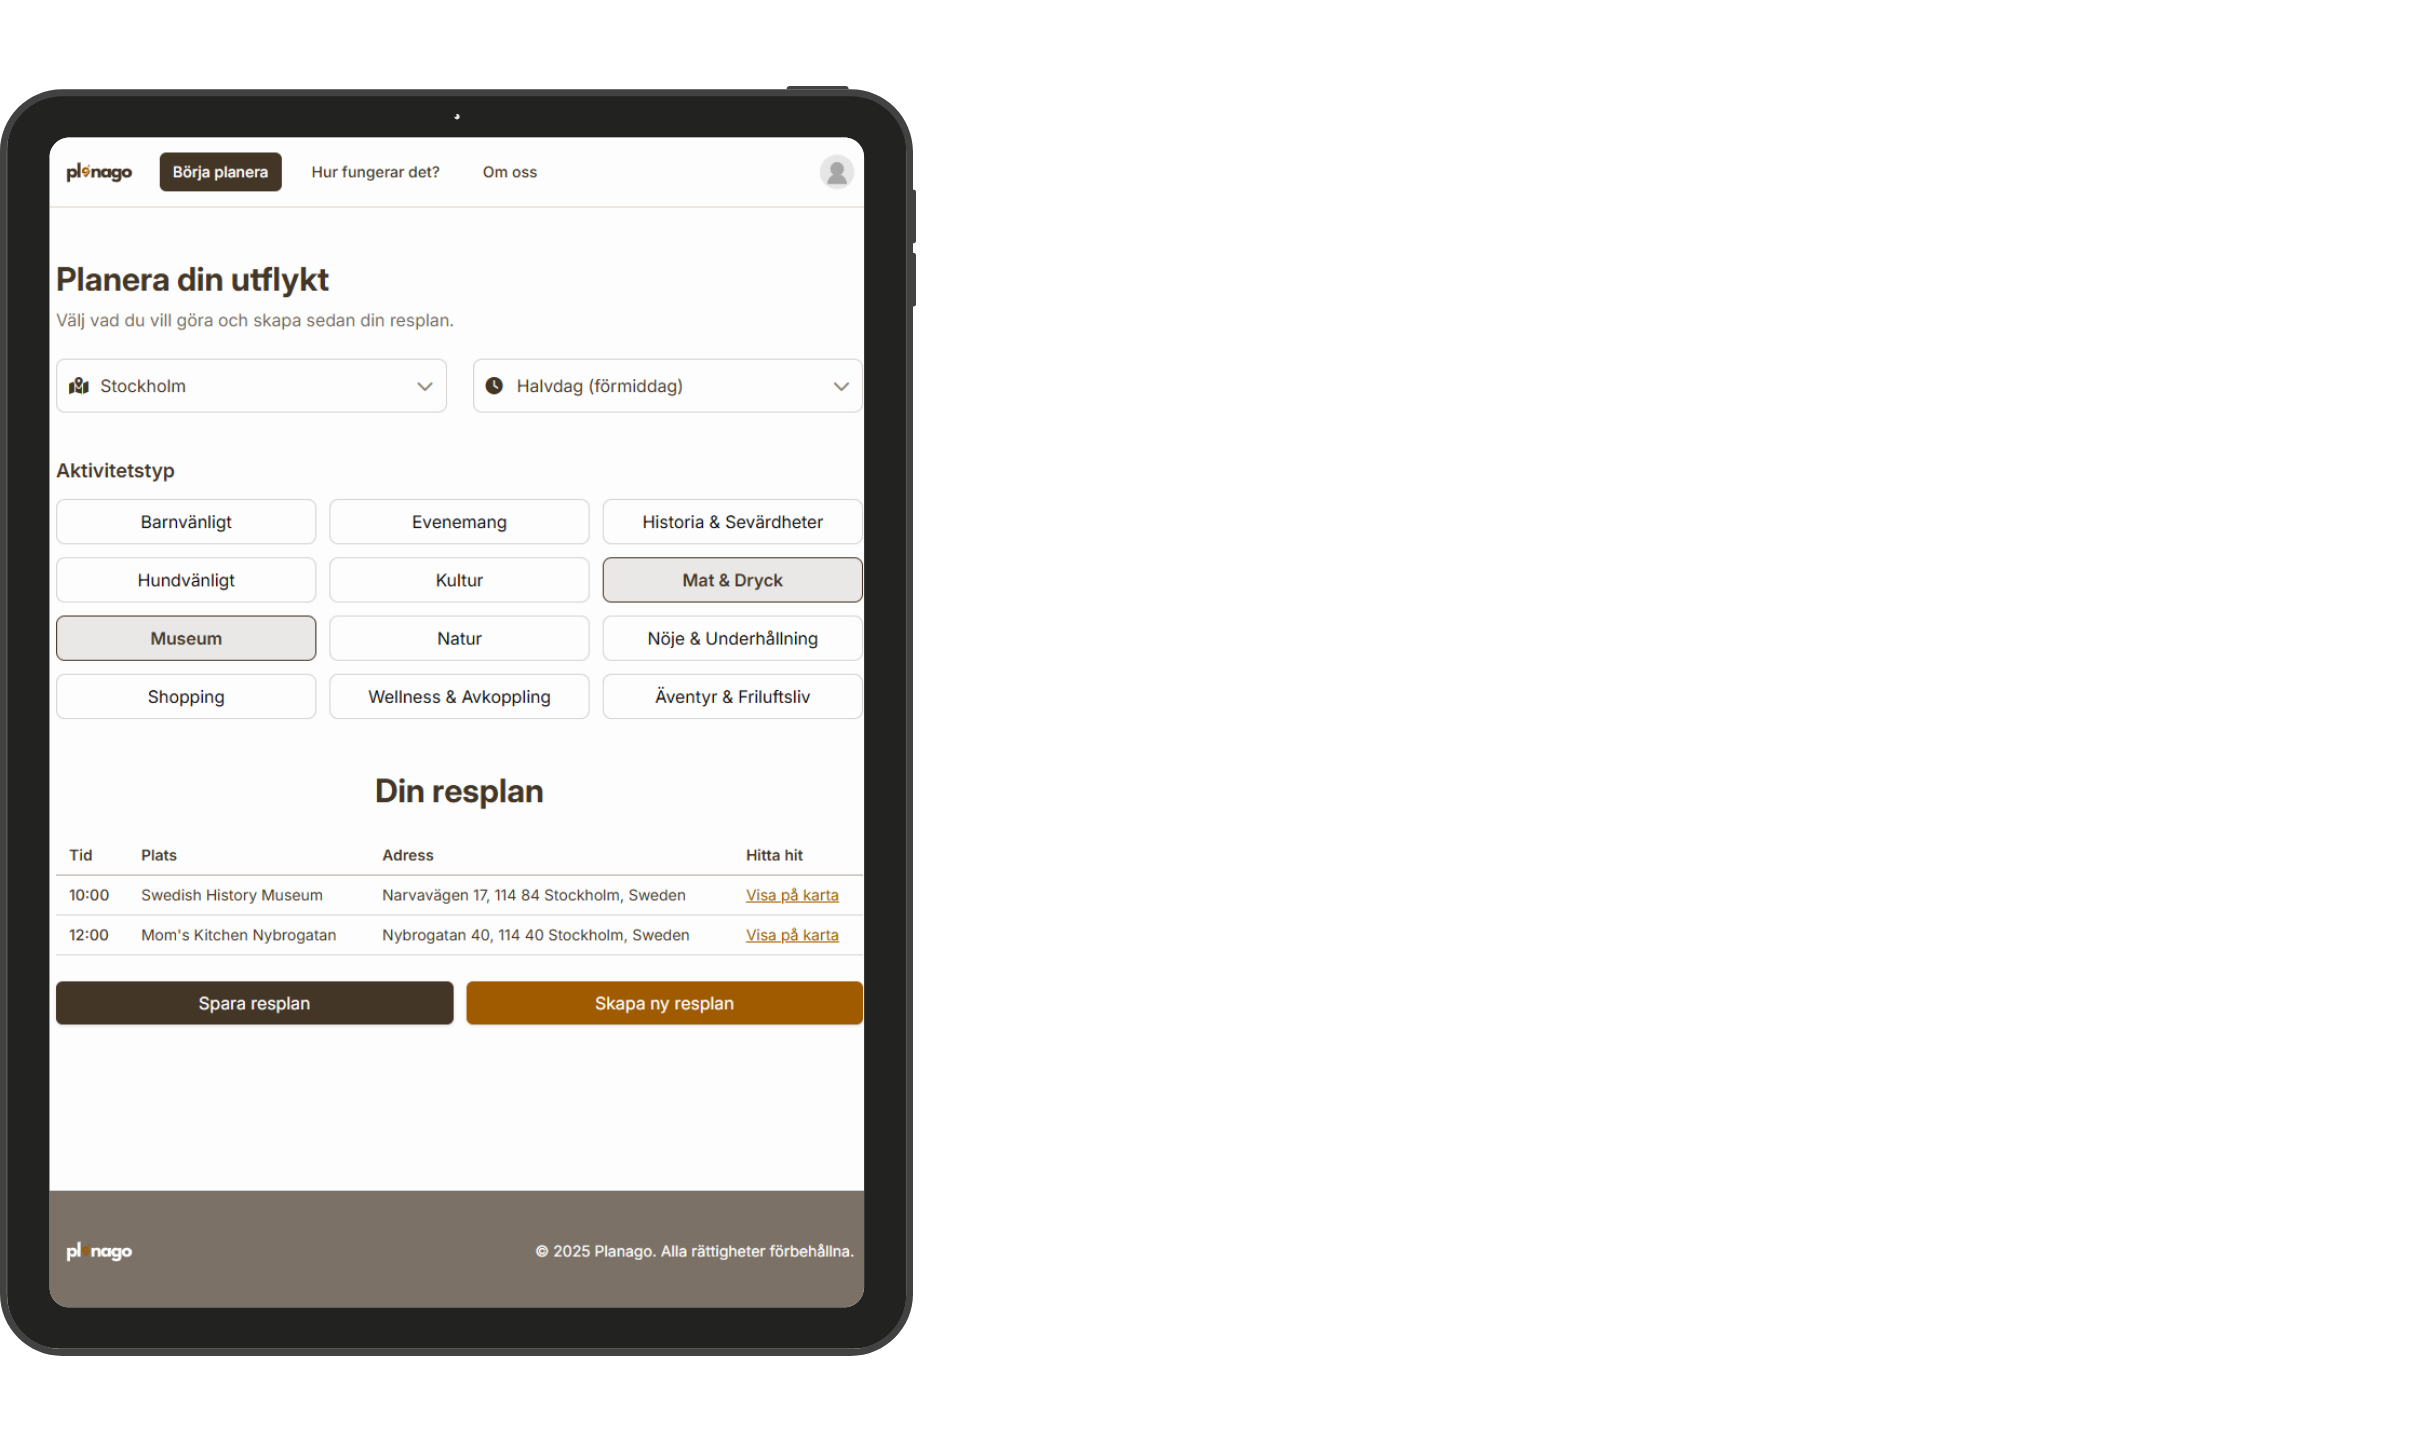
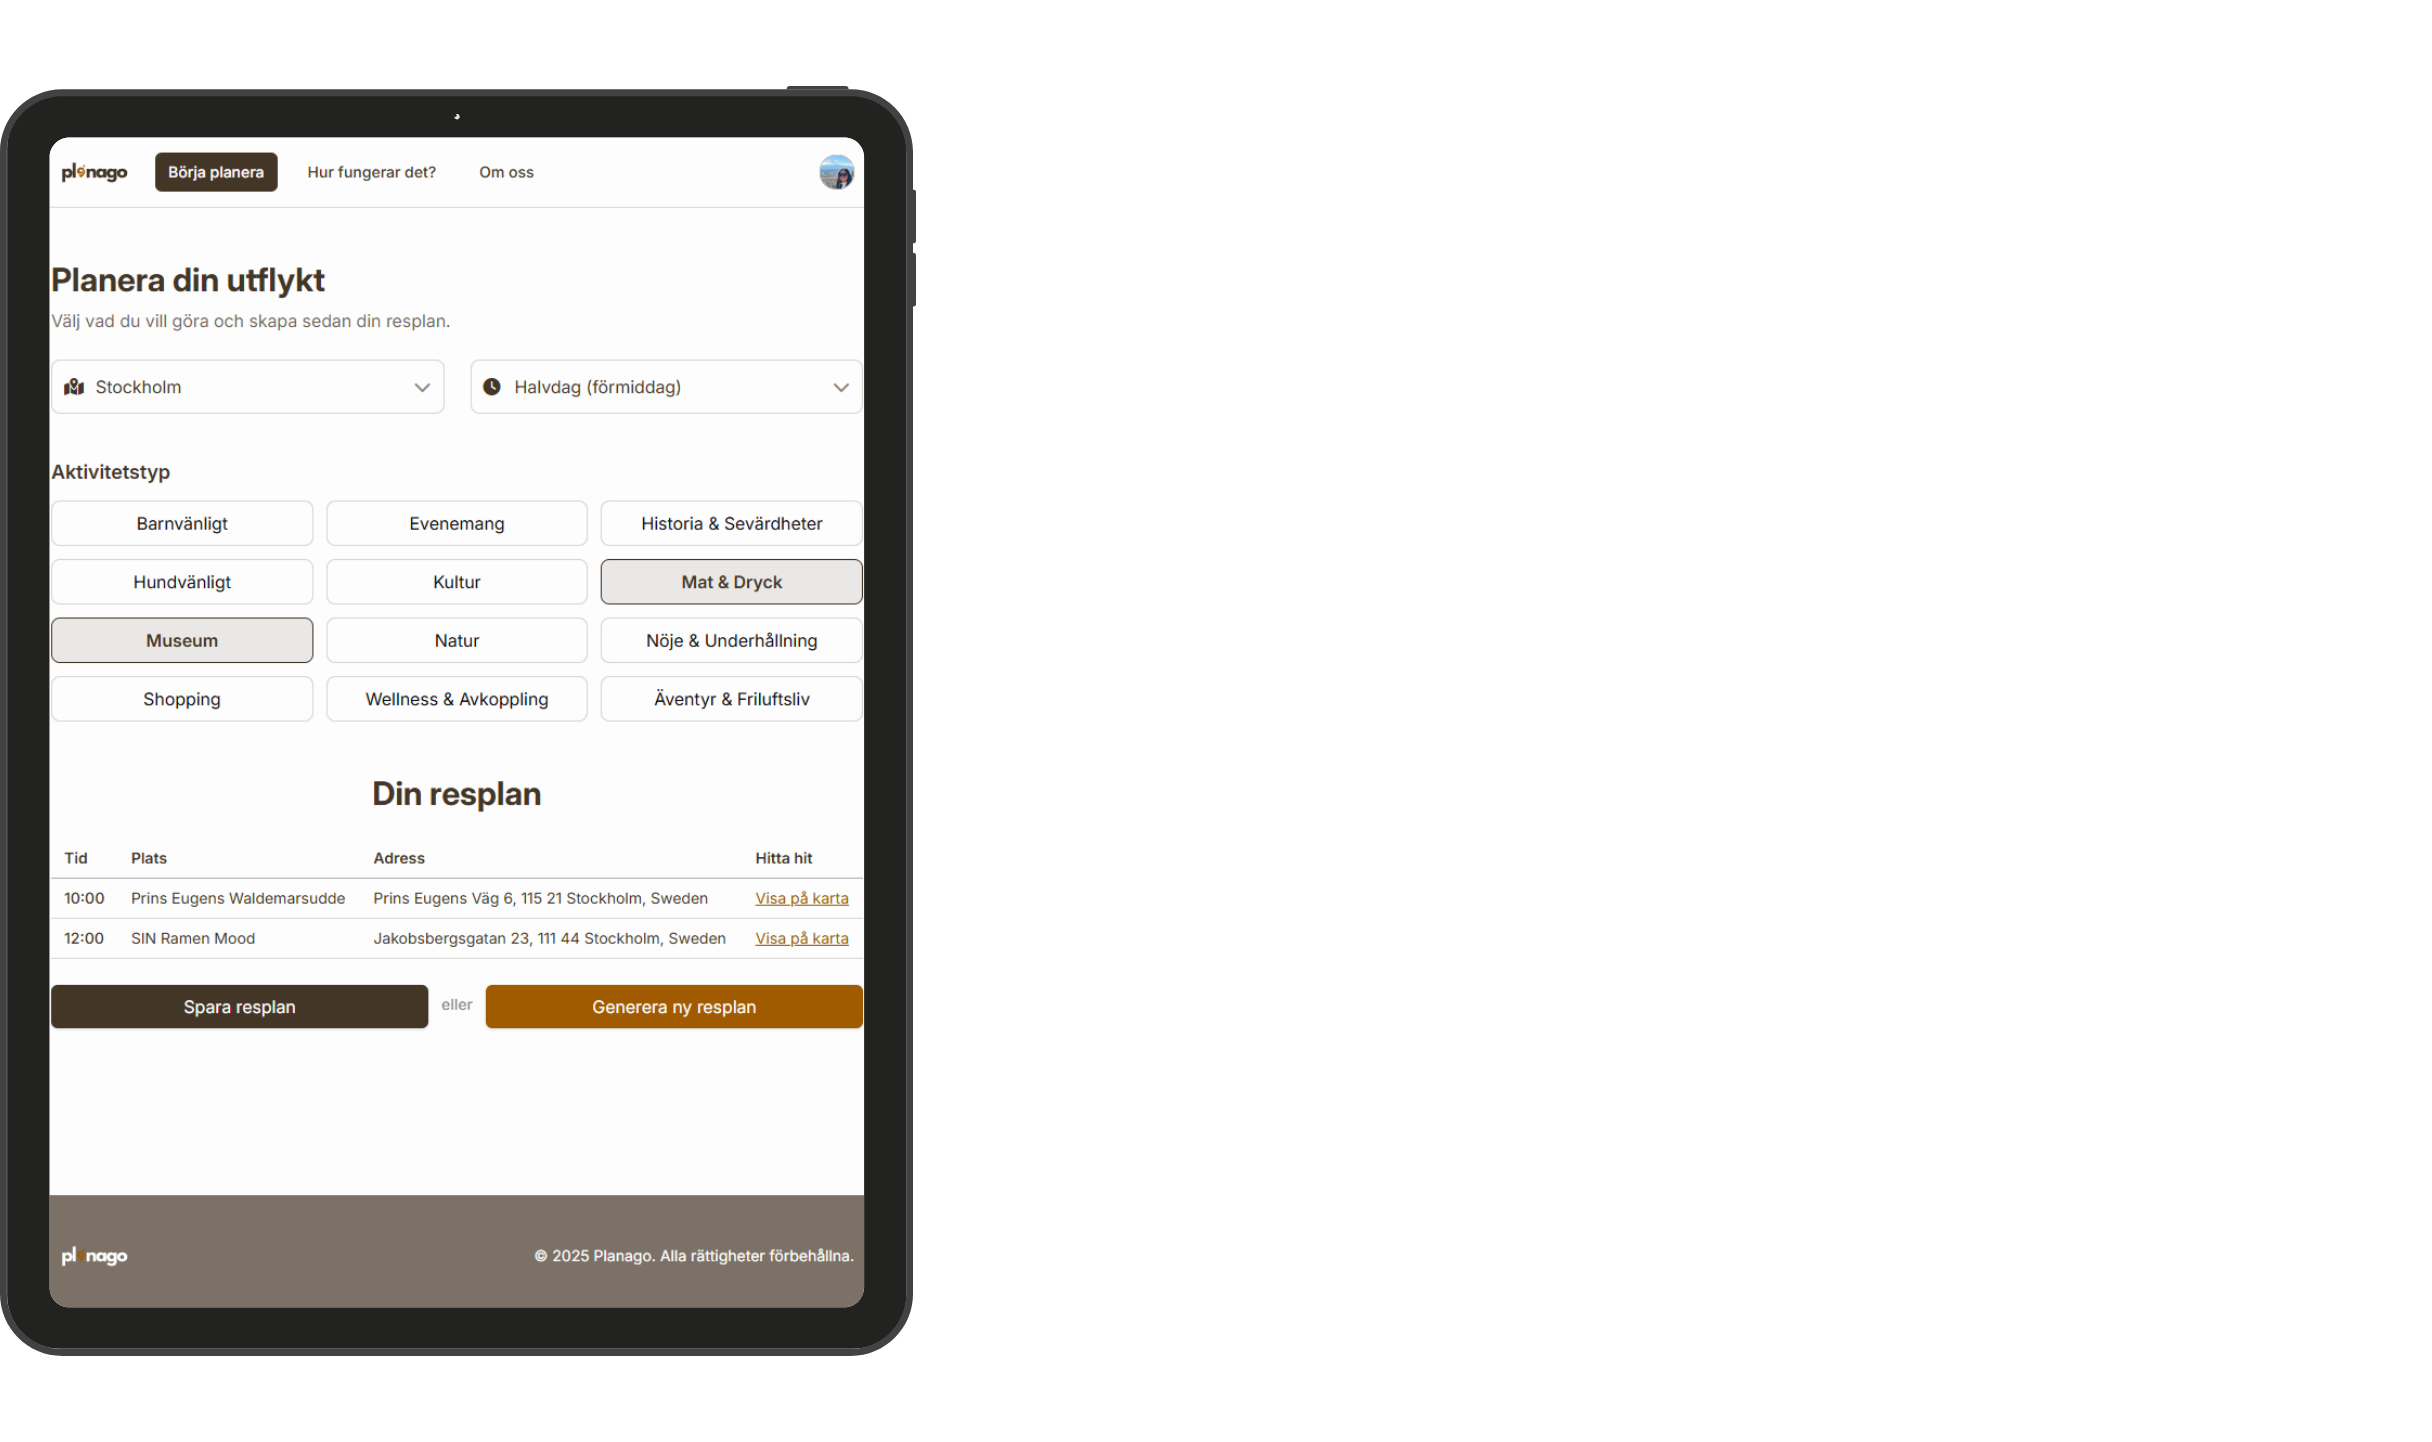
EP-28 <improved API fetch to get more results>

diff --git a/planago/app/routes/PlanagoEditPlan.tsx b/planago/app/routes/PlanagoEditPlan.tsx
@@ -2,11 +2,12 @@ import { db } from "~/shared/database";
 import type { Route } from "./+types/PlanagoEditPlan";
 import { plan } from "~/shared/database/schema";
 import { eq, and } from "drizzle-orm";
-import { Form, Link, redirect } from "react-router";
+import { Form, Link, redirect, useNavigation } from "react-router";
 import { useEffect, useState } from "react";
 import { userSessionContext } from "~/context/userSessionContext";
 import {
   generatePlan,
+  geocodeCity,
   getSelectedTimeFrame,
   mapActivityTypes,
 } from "~/models/planUtils";
@@ -49,12 +50,31 @@ export async function loader({ request, params, context }: Route.LoaderArgs) {
   let generatedPlan: any[] = [];
   let error: string | null = null;
 
-  if (location && activityTypes.length > 0) {
+  const regenerate = searchParams.get("regenerate") === "true";
+
+  if (regenerate && location && activityTypes.length > 0) {
     const mappedTypes = mapActivityTypes(activityTypes);
-    const query = `${mappedTypes.join(" ")} in ${location}`;
     const apiKey = import.meta.env.VITE_GOOGLE_API_KEY;
 
-    try {
+    const geo = await geocodeCity(location, apiKey);
+    if (!geo) {
+      error = "Kunde inte hitta vald plats.";
+      return { filterOptions, plan: currentPlan, generatedPlan: [], error };
+    }
+
+    const locationBias = {
+      circle: {
+        center: { latitude: geo.lat, longitude: geo.lng },
+        radius: 15000,
+      },
+    };
+
+    const query = `${mappedTypes.join(" ")} in ${location}`;
+
+    async function fetchPage(pageToken?: string) {
+      const body: any = { textQuery: query, locationBias };
+      if (pageToken) body.pageToken = pageToken;
+
       const response = await fetch(
         `https://places.googleapis.com/v1/places:searchText?key=${apiKey}`,
         {
@@ -62,9 +82,9 @@ export async function loader({ request, params, context }: Route.LoaderArgs) {
           headers: {
             "Content-Type": "application/json",
             "X-Goog-FieldMask":
-              "places.displayName,places.formattedAddress,places.googleMapsUri,places.types,places.id",
+              "places.displayName,places.formattedAddress,places.googleMapsUri,places.types,places.id,nextPageToken",
           },
-          body: JSON.stringify({ textQuery: query }),
+          body: JSON.stringify(body),
         }
       );
 
@@ -75,23 +95,46 @@ export async function loader({ request, params, context }: Route.LoaderArgs) {
         data = {};
       }
 
-      if (!response.ok) {
-        if (response.status === 400) {
+      return { ok: response.ok, status: response.status, data };
+    }
+
+    try {
+      const page1 = await fetchPage();
+
+      if (!page1.ok) {
+        if (page1.status === 400) {
           error =
             "Din sökning kunde inte behandlas. Kontrollera dina val och försök igen.";
-        } else if (response.status === 429) {
+        } else if (page1.status === 429) {
           error =
             "För många förfrågningar just nu. Vänta en stund och försök igen.";
         } else {
-          error = `Ett oväntat fel inträffade (status: ${response.status}). Försök igen.`;
+          error = `Ett oväntat fel inträffade (status: ${page1.status}). Försök igen.`;
         }
-      } else if (data.error) {
-        error = data.error.message || "Okänt API-fel";
-      } else if (!data.places || data.places.length === 0) {
+        return { filterOptions, plan: currentPlan, generatedPlan: [], error };
+      }
+
+      let allPlaces = [...(page1.data.places ?? [])];
+      let nextToken = page1.data.nextPageToken;
+
+      if (nextToken) {
+        await new Promise((r) => setTimeout(r, 2000));
+        const page2 = await fetchPage(nextToken);
+
+        if (page2.ok) {
+          allPlaces.push(...(page2.data.places ?? []));
+        }
+      }
+
+      const uniquePlaces = [
+        ...new Map(allPlaces.map((p) => [p.id, p])).values(),
+      ];
+
+      if (uniquePlaces.length === 0) {
         error = "Inga platser matchade dina filter. Prova att ändra sökningen.";
       } else {
         generatedPlan = generatePlan(
-          data.places,
+          uniquePlaces,
           getSelectedTimeFrame(timeFrame ?? "Heldag")
         );
       }
@@ -148,6 +191,8 @@ export default function PlanagoEditPlan({
   loaderData,
   actionData,
 }: Route.ComponentProps) {
+  const navigation = useNavigation();
+  const isLoading = navigation.state === "loading";
   const {
     filterOptions,
     plan: currentPlan,
@@ -165,7 +210,7 @@ export default function PlanagoEditPlan({
   const hasPlan = plan && plan.length > 0;
 
   return (
-    <main className="min-h-screen bg-background px-4 py-12">
+    <main className="flex-grow bg-background px-4 py-12">
       <div className="mx-auto max-w-5xl space-y-12">
         <h1 className="text-2xl sm:text-3xl lg:text-4xl font-bold text-primary mb-2">
           Uppdatera din utflykt
@@ -272,6 +317,12 @@ export default function PlanagoEditPlan({
             </div>
           </div>
 
+          {isLoading && (
+            <div className="flex justify-center py-6">
+              <div className="h-6 w-6 border-4 border-primary/30 border-t-primary rounded-full animate-spin"></div>
+            </div>
+          )}
+
           {hasPlan && (
             <input type="hidden" name="plan" value={JSON.stringify(plan)} />
           )}
@@ -280,8 +331,8 @@ export default function PlanagoEditPlan({
             <div className="flex flex-col md:flex-row gap-3 md:gap-4">
               <button
                 type="submit"
-                name="intent"
-                value="regenerate"
+                name="regenerate"
+                value="true"
                 formMethod="get"
                 className="flex-1 rounded-md bg-primary px-6 py-3 text-base font-semibold text-primary-foreground shadow hover:bg-primary/90 transition"
               >
@@ -303,7 +354,7 @@ export default function PlanagoEditPlan({
             </div>
           )}
 
-          {hasPlan && showPlan && (
+          {hasPlan && showPlan && !isLoading && (
             <div className="mt-10 text-center">
               <h2 className="text-2xl sm:text-3xl lg:text-4xl font-bold text-primary mb-6">
                 Din nya resplan

diff --git a/planago/app/routes/PlanagoFilter.tsx b/planago/app/routes/PlanagoFilter.tsx
@@ -1,4 +1,4 @@
-import { Form, redirect, useSearchParams } from "react-router";
+import { Form, redirect, useNavigation, useSearchParams } from "react-router";
 import type { Route } from "./+types/PlanagoFilter";
 import { useEffect, useState } from "react";
 import { userSessionContext } from "~/context/userSessionContext";
@@ -7,6 +7,7 @@ import { plan } from "~/shared/database/schema";
 import { filterOptions } from "~/models/planConfig";
 import {
   generatePlan,
+  geocodeCity,
   getSelectedTimeFrame,
   mapActivityTypes,
 } from "~/models/planUtils";
@@ -24,11 +25,27 @@ export async function loader({ request }: Route.LoaderArgs) {
 
   if (location && activityTypes.length > 0) {
     const mappedTypes = mapActivityTypes(activityTypes);
-
-    const query = `${mappedTypes.join(" ")} in ${location}`;
     const apiKey = import.meta.env.VITE_GOOGLE_API_KEY;
 
-    try {
+    const geo = await geocodeCity(location, apiKey);
+    if (!geo) {
+      error = "Kunde inte hitta vald plats.";
+      return { filterOptions, generatedPlan: [], error };
+    }
+
+    const locationBias = {
+      circle: {
+        center: { latitude: geo.lat, longitude: geo.lng },
+        radius: 15000,
+      },
+    };
+
+    const query = `${mappedTypes.join(" ")} in ${location}`;
+
+    async function fetchPage(pageToken?: string) {
+      const body: any = { textQuery: query, locationBias };
+      if (pageToken) body.pageToken = pageToken;
+
       const response = await fetch(
         `https://places.googleapis.com/v1/places:searchText?key=${apiKey}`,
         {
@@ -36,9 +53,9 @@ export async function loader({ request }: Route.LoaderArgs) {
           headers: {
             "Content-Type": "application/json",
             "X-Goog-FieldMask":
-              "places.displayName,places.formattedAddress,places.googleMapsUri,places.types,places.id",
+              "places.displayName,places.formattedAddress,places.googleMapsUri,places.types,places.id,nextPageToken",
           },
-          body: JSON.stringify({ textQuery: query }),
+          body: JSON.stringify(body),
         }
       );
 
@@ -49,23 +66,46 @@ export async function loader({ request }: Route.LoaderArgs) {
         data = {};
       }
 
-      if (!response.ok) {
-        if (response.status === 400) {
+      return { ok: response.ok, status: response.status, data };
+    }
+
+    try {
+      const page1 = await fetchPage();
+
+      if (!page1.ok) {
+        if (page1.status === 400) {
           error =
             "Din sökning kunde inte behandlas. Kontrollera dina val och försök igen.";
-        } else if (response.status === 429) {
+        } else if (page1.status === 429) {
           error =
             "För många förfrågningar just nu. Vänta en stund och försök igen.";
         } else {
-          error = `Ett oväntat fel inträffade (status: ${response.status}). Försök igen.`;
+          error = `Ett oväntat fel inträffade (status: ${page1.status}). Försök igen.`;
         }
-      } else if (data.error) {
-        error = data.error.message || "Okänt API-fel";
-      } else if (!data.places || data.places.length === 0) {
+        return { filterOptions, generatedPlan: [], error };
+      }
+
+      let allPlaces = [...(page1.data.places ?? [])];
+      let nextToken = page1.data.nextPageToken;
+
+      if (nextToken) {
+        await new Promise((r) => setTimeout(r, 2000));
+        const page2 = await fetchPage(nextToken);
+
+        if (page2.ok) {
+          allPlaces.push(...(page2.data.places ?? []));
+        }
+      }
+
+      const uniquePlaces = [
+        ...new Map(allPlaces.map((p) => [p.id, p])).values(),
+      ];
+
+      if (uniquePlaces.length === 0) {
         error = "Inga platser matchade dina filter. Prova att ändra sökningen.";
       } else {
         generatedPlan = generatePlan(
-          data.places,
+          uniquePlaces,
           getSelectedTimeFrame(timeFrame ?? "Heldag")
         );
       }
@@ -118,6 +158,8 @@ export default function PlanagoFilter({
   actionData,
 }: Route.ComponentProps) {
   const [searchParams] = useSearchParams();
+  const navigation = useNavigation();
+  const isLoading = navigation.state === "loading";
   const { filterOptions, generatedPlan: initialPlan, error } = loaderData;
   const [errorForm, setErrorForm] = useState<string | null>(null);
   const [plan, setPlan] = useState(initialPlan ?? []);
@@ -129,7 +171,7 @@ export default function PlanagoFilter({
   const hasPlan = plan && plan.length > 0;
 
   return (
-    <main className="min-h-screen bg-background px-4 py-12">
+    <main className="flex-grow bg-background px-4 py-12">
       <div className="mx-auto max-w-5xl space-y-12">
         <h1 className="text-2xl sm:text-3xl lg:text-4xl font-bold text-primary mb-2">
           Planera din utflykt
@@ -262,13 +304,19 @@ export default function PlanagoFilter({
           )}
         </Form>
 
+        {isLoading && (
+          <div className="flex justify-center py-6">
+            <div className="h-6 w-6 border-4 border-primary/30 border-t-primary rounded-full animate-spin"></div>
+          </div>
+        )}
+
         {error && (
           <div className="mt-4 p-3 rounded bg-accent/10 text-accent text-sm sm:text-base">
             {error}
           </div>
         )}
 
-        {hasPlan && (
+        {hasPlan && !isLoading && (
           <div className="mt-10 text-center">
             <h2 className="text-2xl sm:text-3xl lg:text-4xl font-bold text-primary mb-6">
               Din resplan
@@ -367,12 +415,17 @@ export default function PlanagoFilter({
               >
                 Spara resplan
               </button>
+
+              <span className="mt-2 text-primary/60 text-sm font-medium">
+                eller
+              </span>
+
               <button
                 type="button"
                 onClick={() => setPlan([])}
                 className="flex-1 rounded-md bg-accent px-4 py-2 text-primary-foreground shadow hover:bg-accent/90"
               >
-                Skapa ny resplan
+                Generera ny resplan
               </button>
             </Form>
           </div>

diff --git a/planago/app/models/planUtils.ts b/planago/app/models/planUtils.ts
@@ -4,6 +4,23 @@ export function mapActivityTypes(activityTypes: string[]): string[] {
   return activityTypes.flatMap((type) => activityTypeMapping[type] || [type]);
 }
 
+export async function geocodeCity(city: string, apiKey: string) {
+  const query = `${city}, Sweden`;
+
+  const res = await fetch(
+    `https://maps.googleapis.com/maps/api/geocode/json?address=${encodeURIComponent(
+      query
+    )}&key=${apiKey}`
+  );
+
+  const data = await res.json();
+
+  if (!data.results?.length) return null;
+
+  const { lat, lng } = data.results[0].geometry.location;
+  return { lat, lng };
+}
+
 export function mapPlaceToCategory(place: any): "food" | "activity" {
   const type = place.types || [];
   return type.some((x: string) => ["restaurant", "cafe", "bar"].includes(x))
